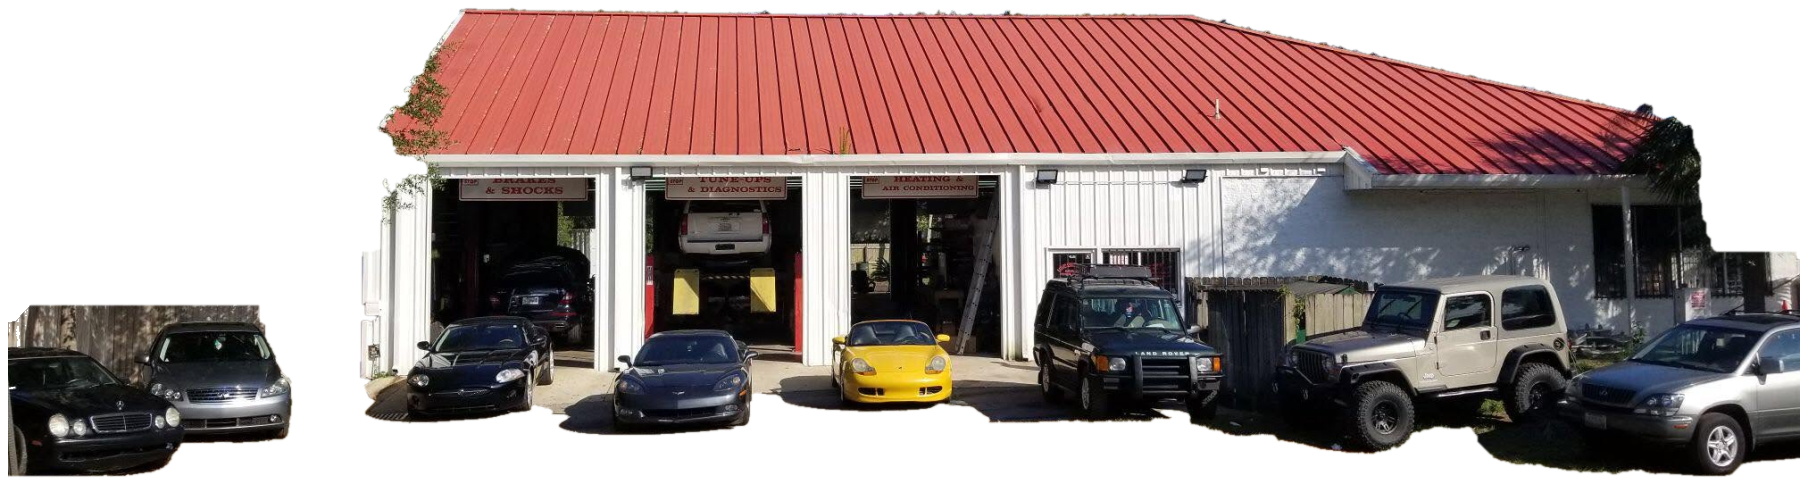
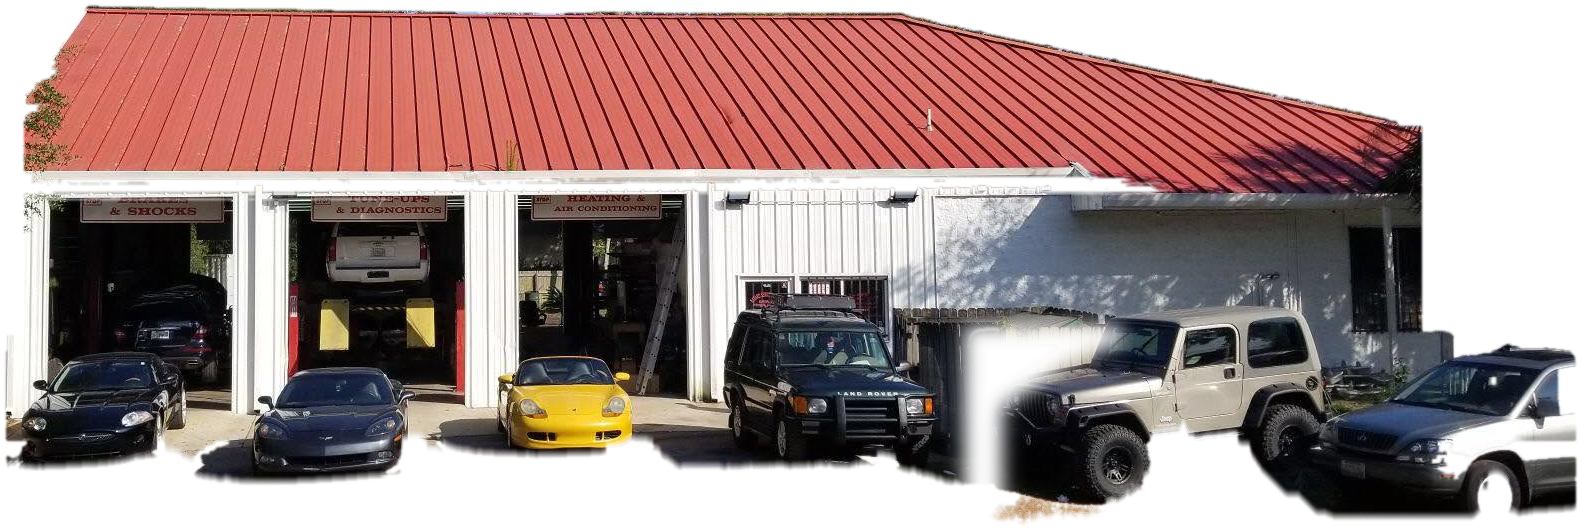
Feather the hero shop cutout and seat it on the glow. (#2)
Drop the floating cars at the left edge, soften the silhouette, and open the fence gap beside the Jeep so the building and the cars in front of it read as one cutout. A contact shadow sits under the shop on the red glow.

diff --git a/css/styles.css b/css/styles.css
@@ -307,9 +307,9 @@ h2 { font-size: clamp(2.6rem, 5vw, 4.4rem); }
 .hero-glow {
   position: absolute;
   left: 50%;
-  bottom: 6%;
-  width: 78%;
-  height: 55%;
+  bottom: 0;
+  width: 70%;
+  height: 22%;
   transform: translateX(-50%);
   background: radial-gradient(ellipse, rgba(216, 56, 48, 0.55), rgba(216, 56, 48, 0) 68%);
   filter: blur(8px);
@@ -320,10 +320,24 @@ h2 { font-size: clamp(2.6rem, 5vw, 4.4rem); }
   z-index: 1;
   transform: translate3d(0, var(--py, 0px), 0);
 }
+.hero-ground {
+  position: absolute;
+  z-index: 0;
+  left: 6%;
+  right: 6%;
+  bottom: 1%;
+  height: 26%;
+  background: radial-gradient(ellipse 86% 80% at 50% 78%, rgba(0, 0, 0, 0.72), rgba(0, 0, 0, 0) 72%);
+  filter: blur(3px);
+  pointer-events: none;
+}
 .hero-cutout {
+  position: relative;
+  z-index: 2;
+  display: block;
   width: 100%;
   height: auto;
-  filter: drop-shadow(0 30px 28px rgba(0, 0, 0, 0.55));
+  filter: drop-shadow(0 22px 18px rgba(0, 0, 0, 0.42));
 }
 .hero-fade {
   position: absolute;
@@ -347,6 +361,12 @@ h2 { font-size: clamp(2.6rem, 5vw, 4.4rem); }
   .hero-cutout {
     width: min(1220px, 94vw);
     margin-inline: auto;
+  }
+  .hero-ground {
+    left: 50%;
+    right: auto;
+    width: min(1040px, 80vw);
+    transform: translateX(-50%);
   }
   .hero-copy { padding-bottom: 28vh; }
 }

diff --git a/index.html b/index.html
@@ -127,9 +127,10 @@
       <div class="hero-stage">
         <div class="hero-glow" aria-hidden="true"></div>
         <div class="hero-parallax">
+          <div class="hero-ground" aria-hidden="true"></div>
           <picture>
             <source srcset="assets/images/shop-cutout.webp" type="image/webp">
-            <img class="hero-cutout" src="assets/images/shop-cutout.png" width="1800" height="484" alt="Bayard Auto Center shop front on Philips Highway: a white building with a red metal roof, three open service bays, and cars parked out front." fetchpriority="high">
+            <img class="hero-cutout" src="assets/images/shop-cutout.png" width="1582" height="530" alt="Bayard Auto Center shop front on Philips Highway: a white building with a red metal roof, three open service bays, and cars parked out front." fetchpriority="high">
           </picture>
         </div>
         <div class="hero-fade" aria-hidden="true"></div>
